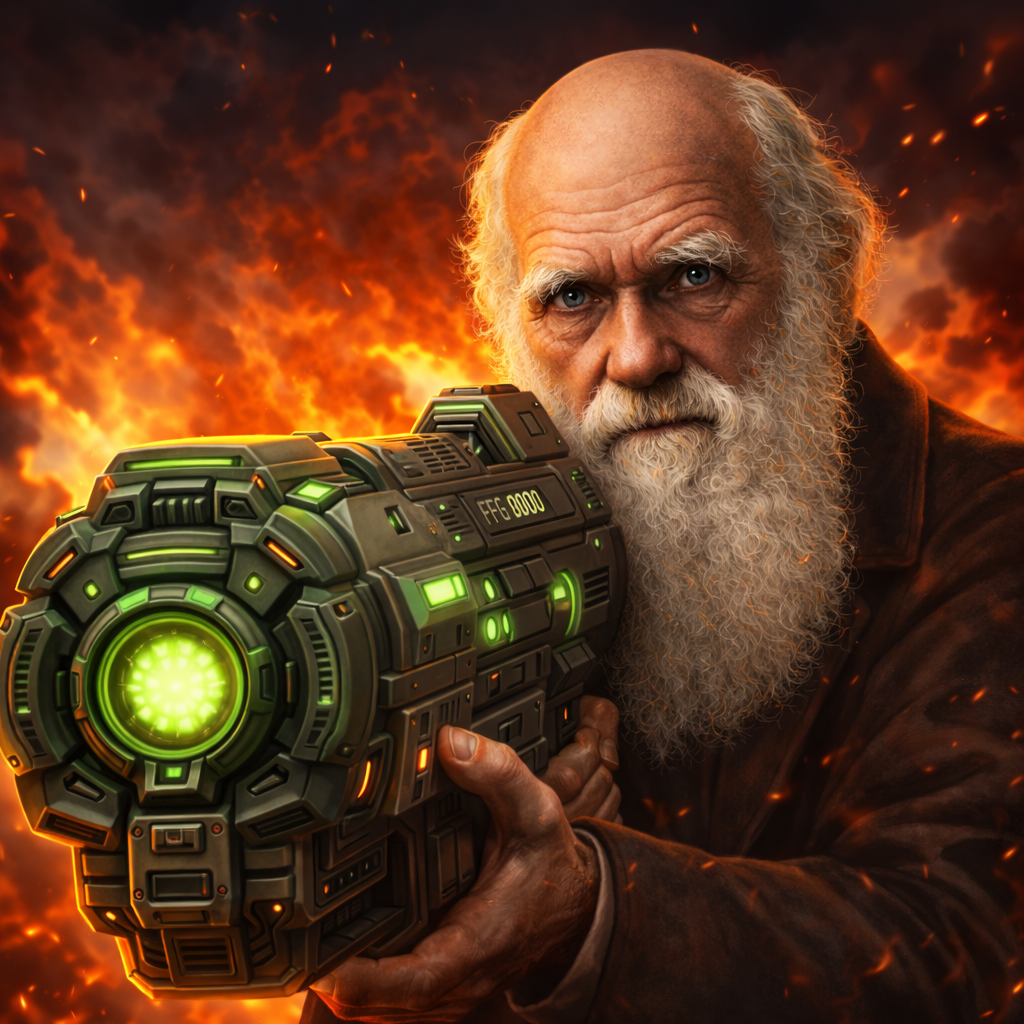
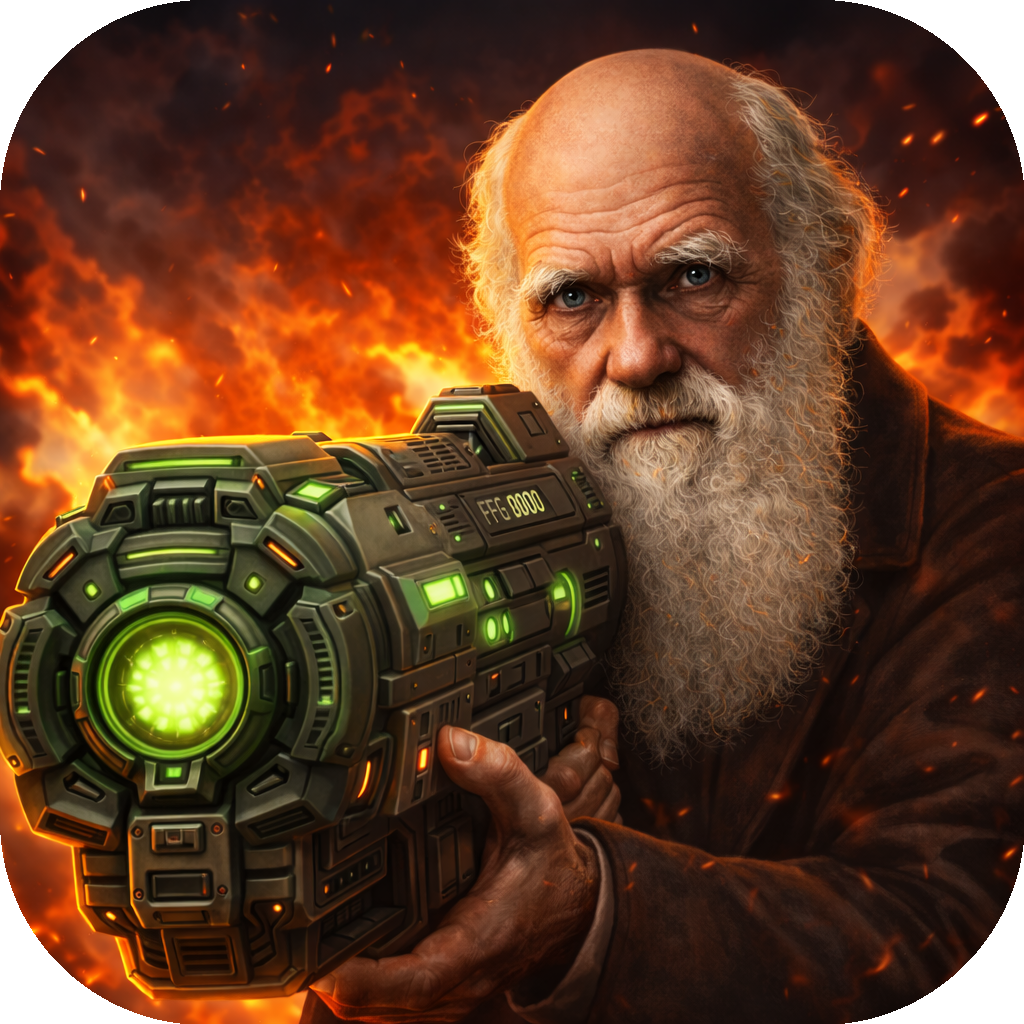
Update README.

diff --git a/README.md b/README.md
@@ -1,5 +1,5 @@
 # DarwinDOOM
-<img alt="DarwinDOOM icon" src="media/DarwinDOOM.png" style="border-radius: 22px" width="300">
+<img alt="DarwinDOOM icon" src="media/DarwinDOOM.png" width="300">
 
 ## What is this?
 
